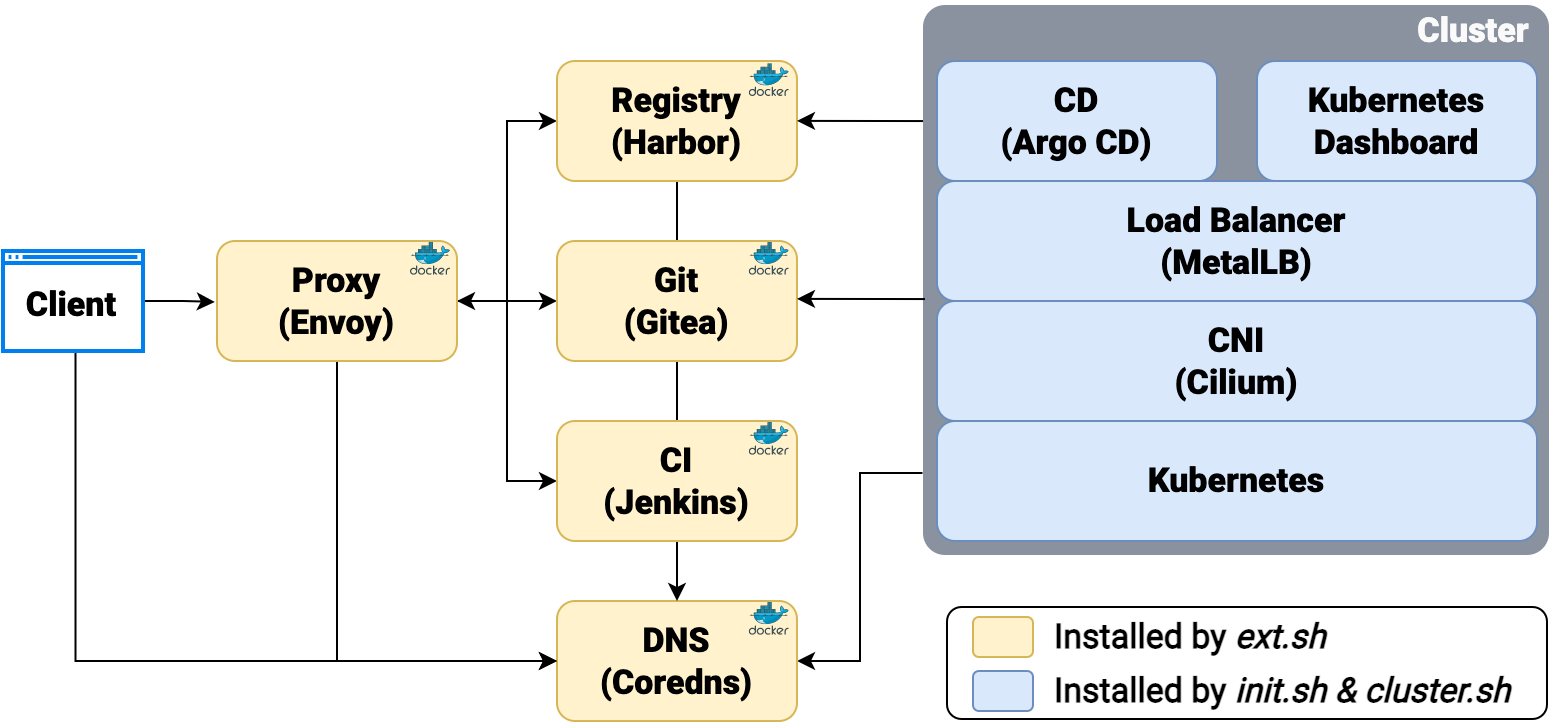
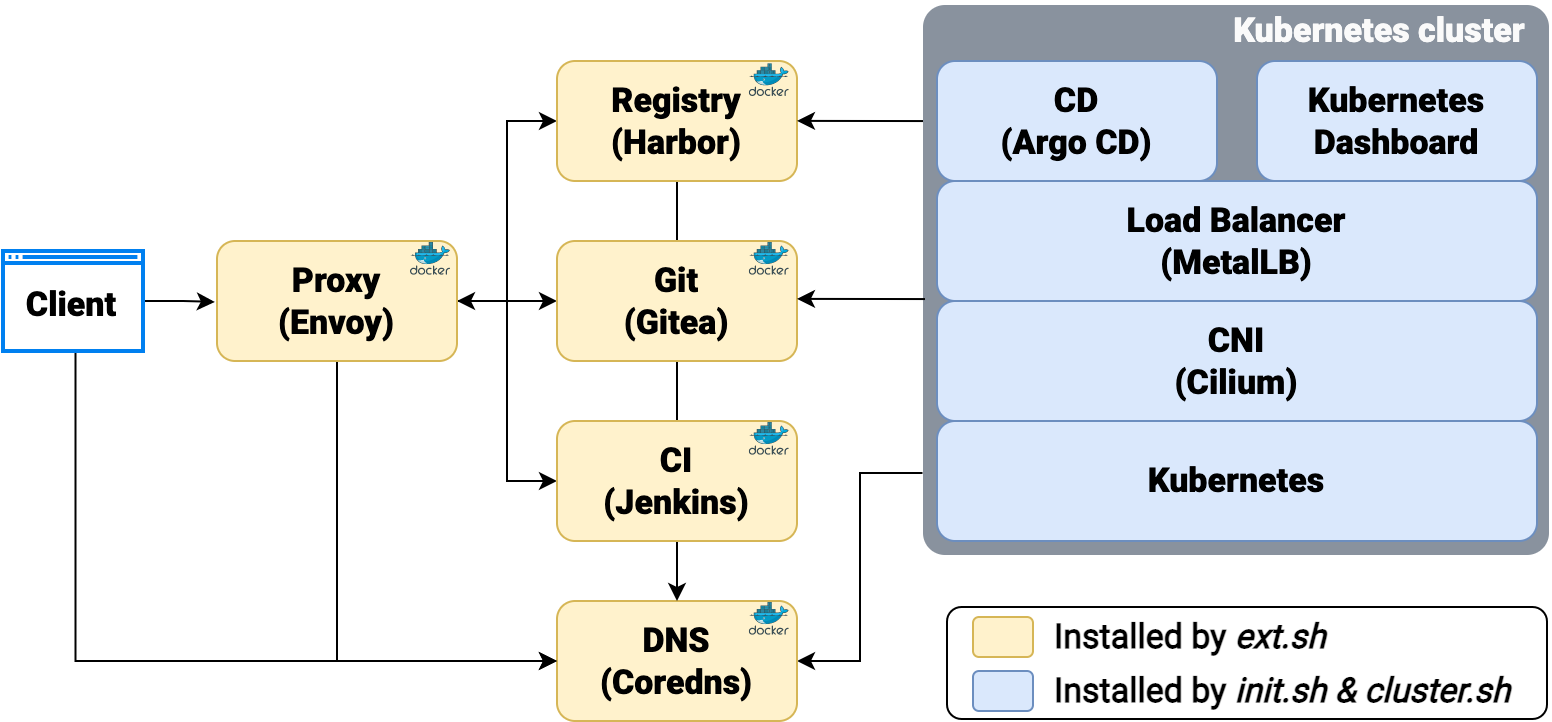
chore: Change image

diff --git a/README.md b/README.md
@@ -31,10 +31,10 @@ Tested target machine environment likes below.
 
     ext.sh creates and copies a ssh key to communicate with the target machines. And it installs DNS(CoreDNS), Proxy(Envoy), Registry(Harbor), Git(Gitea), and CI(Jenkins) onto the target machines.
 
-1. Execute "/ansible/init.sh" to setup environment for K8s cluster
+1. Execute "/ansible/init.sh" to setup environment for Kubernetes cluster
 
-    init.sh do the jobs for ssh key and it installs basic K8s tools.
+    init.sh do the jobs for ssh key and it installs basic Kubernetes tools.
 
-1. Execute "/ansible/cluster.sh" to install K8s cluster
+1. Execute "/ansible/cluster.sh" to install Kubernetes cluster
 
     cluster.sh installs Kubernetes, CNI(Cilium), LoadBalancer(MetalLB), Dashboard(Kubernetes Dashboard), and CD(Argo CD) onto the target machines.
